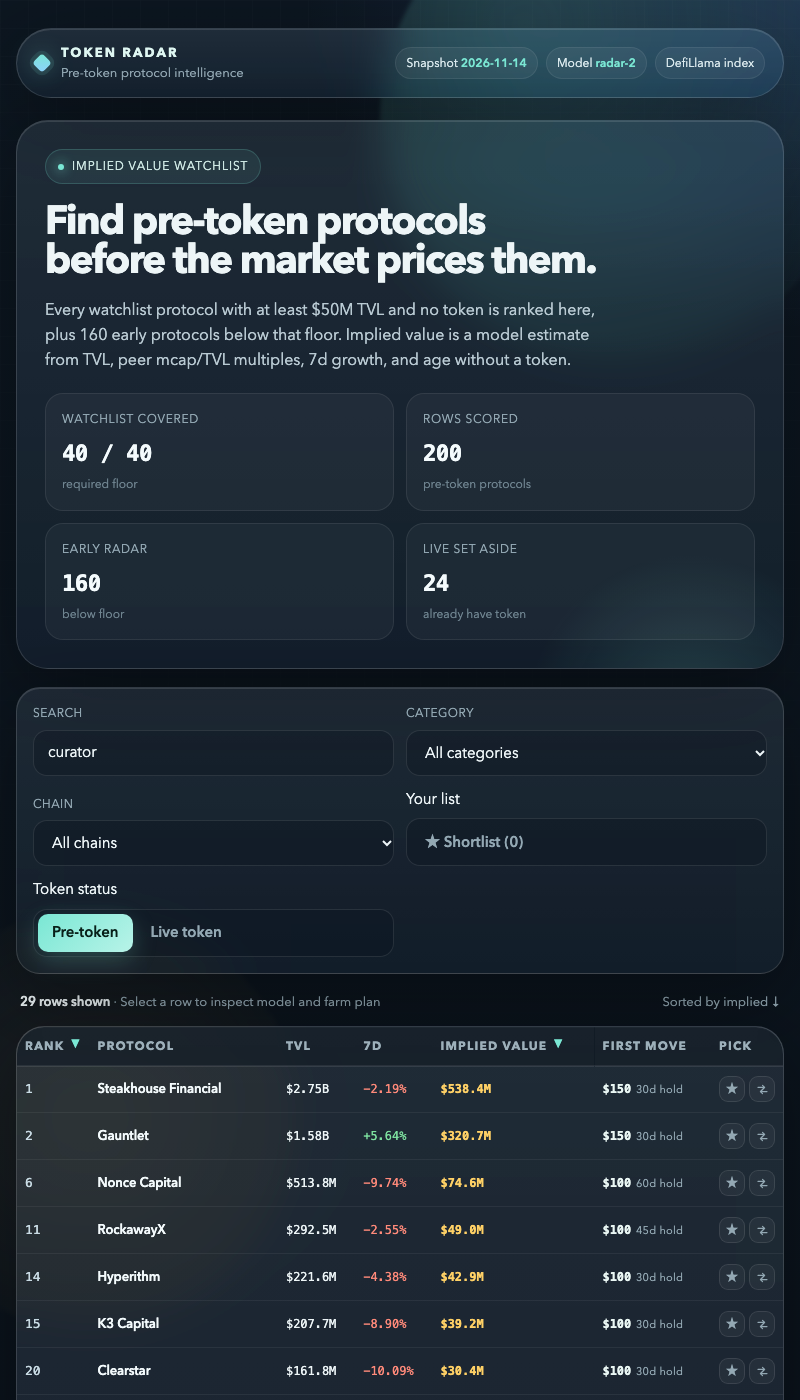
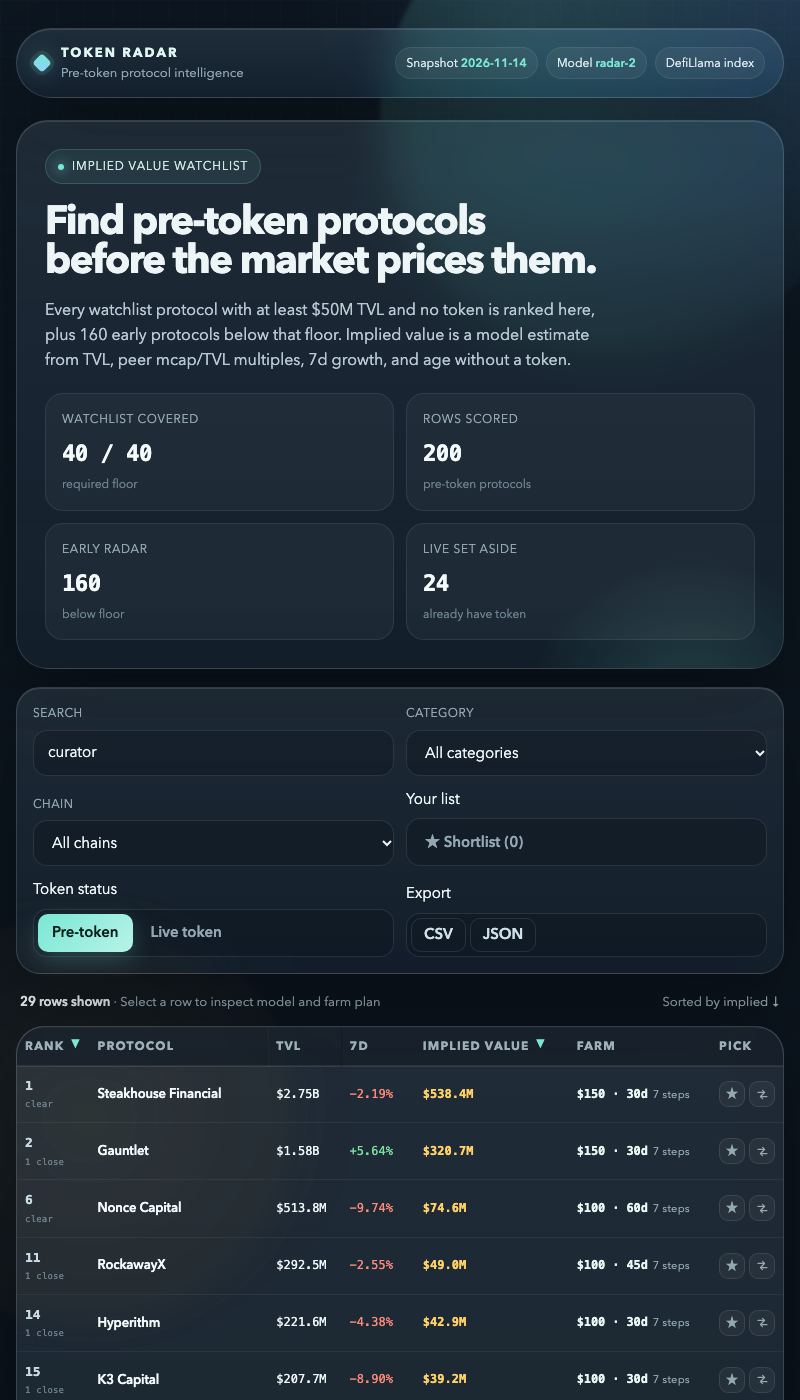
Add rank-reliability indicators and CSV/JSON export
A single rank implied more precision than the board has: many rows sit
within a few percent of each other. Rows now carry the count of other
rows inside +/-5% of their implied value, the modal explains that band
with the nearest rows and the rank range it implies, and the category
table shows how many live tokens back each peer multiple, marked thin
under ten. First move became Farm (capital, hold days, steps), and CSV
and JSON download the view currently on screen. Scores and board.json
are untouched.

diff --git a/dashboard/app.js b/dashboard/app.js
@@ -130,6 +130,32 @@
     if (age < 365) return 45;
     return 30;
   }
+  // A rank is only as firm as the gap around it. Count the other board rows inside a +/-5% band
+  // of this row's implied value; the rank itself already ignores the current filter.
+  var BAND_PCT = 0.05;
+  function impliedBand(row, pct) {
+    var share = pct === undefined ? BAND_PCT : pct;
+    var lo = row.implied_value_usd * (1 - share);
+    var hi = row.implied_value_usd * (1 + share);
+    return DATA.rows.filter(function (r) {
+      return r.slug !== row.slug && r.implied_value_usd >= lo && r.implied_value_usd <= hi;
+    });
+  }
+  function bandRanks(row, pct) {
+    var share = pct === undefined ? BAND_PCT : pct;
+    return {
+      best: rankAmong(row.implied_value_usd * (1 + share), row.slug),
+      worst: rankAmong(row.implied_value_usd * (1 - share), row.slug)
+    };
+  }
+  // How much evidence stands behind a category's peer number: below six live comparables the
+  // median is a handful of prices, so the label says so next to the count.
+  function evidenceLabel(samples) {
+    if (samples >= 10) return 'ample';
+    if (samples >= 6) return 'ok';
+    return 'thin';
+  }
+
   function readHash() {
     var hash = window.location.hash.replace(/^#/, '');
     if (!hash) return;
@@ -293,6 +319,7 @@
         count: list.length,
         peers: unblend(multiple, DATA.model),
         clip: clipOf(multiple, DATA.model),
+        samples: list.reduce(function (m, r) { return Math.max(m, r.peer_samples || 0); }, 0),
         blended: multiple,
         own: list.some(function (r) { return r.peer_category === key; }),
         implied: medianOf(list.map(function (r) { return r.implied_value_usd; })),
@@ -324,6 +351,14 @@
           }
         })),
         el('td', { class: 'num', text: String(s.count) }),
+        el('td', { class: 'num samples-col' },
+          s.own
+            ? el('div', { class: 'samples-cell' },
+                el('span', { text: String(s.samples) }),
+                s.samples < 10 ? el('span', { class: 'ev-tag ' + evidenceLabel(s.samples), text: evidenceLabel(s.samples) }) : null
+              )
+            : el('span', { class: 'peer-val none', text: '\u2014' })
+        ),
         el('td', { class: 'num' },
           s.own
             ? el('div', { class: 'peer-cell' },
@@ -352,12 +387,13 @@
     return el('section', { class: 'cat-panel glass' },
       el('h3', { text: 'Categories' }),
       el('h2', { text: 'Where the market pays the most per dollar of TVL', style: 'margin-top:8px;font-size:28px;letter-spacing:-0.03em;' }),
-      el('p', { class: 'model-note', style: 'margin-top:10px;max-width:78ch;', text: 'What live tokens in each category trade at per dollar of TVL - the market number, unblended. The board itself softens it toward ' + DATA.model.base_multiple + ' before scoring (' + DATA.model.peer_weight + ' x peer + ' + (1 - DATA.model.peer_weight).toFixed(1) + ' x base), so a row\u2019s own multiple is closer to the base than this. Categories with fewer than ' + DATA.model.peer_min_samples + ' live comparables have no number of their own: they share the market-wide median, are marked, and are listed after the measured ones. A value on the ' + DATA.model.peer_min + 'x floor or ' + DATA.model.peer_max + 'x ceiling is shown as \u2264 or \u2265: the median was clamped there, so the market number itself can be further out. Click a category to filter the board.' }),
+      el('p', { class: 'model-note', style: 'margin-top:10px;max-width:78ch;', text: 'What live tokens in each category trade at per dollar of TVL - the market number, unblended. The board itself softens it toward ' + DATA.model.base_multiple + ' before scoring (' + DATA.model.peer_weight + ' x peer + ' + (1 - DATA.model.peer_weight).toFixed(1) + ' x base), so a row\u2019s own multiple is closer to the base than this. Categories with fewer than ' + DATA.model.peer_min_samples + ' live comparables have no number of their own: they share the market-wide median, are marked, and are listed after the measured ones. A value on the ' + DATA.model.peer_min + 'x floor or ' + DATA.model.peer_max + 'x ceiling is shown as \u2264 or \u2265: the median was clamped there, so the market number itself can be further out. Samples counts the live tokens behind that number; under six it is marked thin, because a handful of market prices moves the median a lot. Click a category to filter the board.' }),
       el('div', { class: 'cat-scroll' },
         el('table', { class: 'cat-table' },
           el('thead', null, el('tr', null,
             el('th', { scope: 'col', text: 'Category' }),
             el('th', { scope: 'col', text: 'Rows' }),
+            el('th', { scope: 'col', text: 'Samples' }),
             el('th', { scope: 'col', text: 'Market peer x' }),
             el('th', { scope: 'col', text: 'Median implied' }),
             el('th', { scope: 'col', text: 'TVL' }),
@@ -452,7 +488,21 @@
       el('div', { class: 'field' }, el('label', { for: 'category', text: 'Category' }), cat),
       el('div', { class: 'field' }, el('label', { for: 'chain', text: 'Chain' }), chain),
       el('div', { class: 'status-wrap' }, el('span', { class: 'label', text: 'Your list' }), el('div', { class: 'tabs' }, short)),
-      el('div', { class: 'status-wrap' }, el('span', { class: 'label', text: 'Token status' }), el('div', { class: 'tabs' }, pre, live))
+      el('div', { class: 'status-wrap' }, el('span', { class: 'label', text: 'Token status' }), el('div', { class: 'tabs' }, pre, live)),
+      el('div', { class: 'status-wrap' }, el('span', { class: 'label', text: 'Export' }), el('div', { class: 'tabs export' },
+        el('button', {
+          type: 'button',
+          title: 'Download the rows currently shown as CSV',
+          disabled: viewRows().length === 0 ? 'disabled' : null,
+          onclick: exportCsv
+        }, 'CSV'),
+        el('button', {
+          type: 'button',
+          title: 'Download the rows currently shown as JSON, with the model and the active filters',
+          disabled: viewRows().length === 0 ? 'disabled' : null,
+          onclick: exportJson
+        }, 'JSON')
+      ))
     );
   }
 
@@ -465,6 +515,74 @@
       el('span', null, el('strong', { text: shown }), ' · ' + note),
       el('span', { text: 'Sorted by ' + state.sort + (state.dir < 0 ? ' ↓' : ' ↑') })
     );
+  }
+
+  // Export works on the view currently on screen: same tab, filters, order and derived columns.
+  function viewRows() {
+    return state.tab === 'pre-token' ? sortedRows(filteredRows()) : DATA.live.slice();
+  }
+  function viewRecord(r) {
+    if (state.tab === 'live') {
+      return {
+        name: r.name, slug: r.slug, category: r.category || 'Other',
+        chains: (r.chains || []).join('; '), tvl_usd: r.tvl_usd, change_7d: r.change_7d,
+        mcap_usd: r.mcap_usd, status: 'live token'
+      };
+    }
+    return {
+      rank: r.rank, name: r.name, slug: r.slug, category: r.category || 'Other',
+      chains: (r.chains || []).join('; '), tvl_usd: r.tvl_usd, change_7d: r.change_7d,
+      age_days: r.age_days, listed_at: r.listed_at,
+      blended_multiple: r.peer_multiple, market_peer: round4(unblend(r.peer_multiple, DATA.model)),
+      peer_samples: r.peer_samples, peer_clamp: clipOf(r.peer_multiple, DATA.model) || '',
+      growth_multiplier: r.growth_multiplier, maturity_multiplier: r.maturity_multiplier,
+      implied_value_usd: r.implied_value_usd,
+      farm_capital_usd: capitalFor(r), farm_hold_days: holdDaysFor(r.age_days),
+      farm_steps: (r.farm_steps || []).length, close_within_5pct: impliedBand(r).length,
+      shortlisted: isShortlisted(r.slug), in_compare: isCompared(r.slug)
+    };
+  }
+  function csvCell(value) {
+    if (value === null || value === undefined) return '';
+    var text = String(value);
+    return /[",\r\n]/.test(text) ? '"' + text.replace(/"/g, '""') + '"' : text;
+  }
+  function downloadFile(name, mime, text) {
+    var url = URL.createObjectURL(new Blob([text], { type: mime }));
+    var link = el('a', { href: url, download: name });
+    document.body.appendChild(link);
+    link.click();
+    link.remove();
+    window.setTimeout(function () { URL.revokeObjectURL(url); }, 2000);
+  }
+  function exportCsv() {
+    var records = viewRows().map(viewRecord);
+    if (records.length === 0) return;
+    var cols = Object.keys(records[0]);
+    var lines = [cols.join(',')].concat(records.map(function (rec) {
+      return cols.map(function (c) { return csvCell(rec[c]); }).join(',');
+    }));
+    downloadFile('token-radar-' + DATA.as_of + (state.tab === 'live' ? '-live' : '') + '.csv',
+      'text/csv;charset=utf-8', lines.join('\r\n') + '\r\n');
+  }
+  function exportJson() {
+    var records = viewRows().map(viewRecord);
+    if (records.length === 0) return;
+    var payload = {
+      as_of: DATA.as_of,
+      source: DATA.source,
+      model_version: DATA.model_version,
+      model: DATA.model,
+      view: {
+        tab: state.tab, search: state.q, category: state.category, chain: state.chain,
+        shortlist_only: state.shortlistOnly, sort: state.sort,
+        direction: state.dir < 0 ? 'desc' : 'asc'
+      },
+      count: records.length,
+      rows: records
+    };
+    downloadFile('token-radar-' + DATA.as_of + (state.tab === 'live' ? '-live' : '') + '.json',
+      'application/json;charset=utf-8', JSON.stringify(payload, null, 2) + '\n');
   }
 
   function sortHeader(key, label, cls) {
@@ -497,13 +615,23 @@
     list.forEach(function (r, i) {
       var growth = r.change_7d === null ? 'n/a' : fmtPct(r.change_7d);
       var growthClass = r.change_7d === null ? '' : r.change_7d >= 0 ? 'pos' : 'neg';
+      var near = impliedBand(r).length;
       var tr = el('tr', {
         'data-selected': state.selected === r.slug ? 'true' : 'false',
         tabindex: '0',
         onclick: function () { openDetail(r.slug); },
         onkeydown: function (e) { if (e.key === 'Enter' || e.key === ' ') { e.preventDefault(); openDetail(r.slug); } }
       },
-        el('td', { class: 'num rank-cell', text: String(r.rank) }),
+        el('td', { class: 'num rank-cell' },
+          el('div', { class: 'rank-wrap' },
+            el('b', { text: String(r.rank) }),
+            el('span', {
+              class: 'rank-near',
+              title: near + ' other rows sit within \u00b15% of this implied value',
+              text: near === 0 ? 'clear' : near + ' close'
+            })
+          )
+        ),
         el('td', null, el('div', { class: 'name-cell' },
           el('b', { text: r.name }),
           el('span', { text: (r.category || 'Other') + ' · ' + (r.chains && r.chains.length ? r.chains.slice(0, 2).join(', ') : 'unnamed chain') })
@@ -516,9 +644,9 @@
           el('div', { class: 'bar', 'aria-hidden': 'true' }, el('i', { style: 'width:' + Math.max(3, Math.round((r.implied_value_usd / max) * 100)) + '%' })),
           el('span', { class: 'num', text: fmtUsd(r.implied_value_usd) })
         )),
-        el('td', { class: 'move-col' }, el('div', { class: 'move-cell', title: 'Capital and hold time from this row\u2019s farm plan' },
-          el('b', { text: fmtUsd(capitalFor(r)) }),
-          el('span', { text: holdDaysFor(r.age_days) + 'd hold' })
+        el('td', { class: 'farm-col' }, el('div', { class: 'farm-cell', title: 'Capital to qualify, days to hold, and steps from this row\u2019s farm plan' },
+          el('b', { text: fmtUsd(capitalFor(r)) + ' \u00b7 ' + holdDaysFor(r.age_days) + 'd' }),
+          el('span', { text: (r.farm_steps || []).length + ' steps' })
         )),
         el('td', { class: 'pick-col' }, pickCell(r))
       );
@@ -541,7 +669,7 @@
             sortHeader('age', 'Age', 'age-col'),
             sortHeader('peer', 'Peer x', 'peer-col'),
             sortHeader('implied', 'Implied value'),
-            el('th', { scope: 'col', class: 'move-col', text: 'First move' }),
+            el('th', { scope: 'col', class: 'farm-col', text: 'Farm' }),
             el('th', { scope: 'col', class: 'pick-col', text: 'Pick' })
           )),
           tbody
@@ -674,6 +802,33 @@
     );
   }
 
+  function rankTrustSection(row) {
+    var band = impliedBand(row);
+    var ranks = bandRanks(row);
+    var nearest = band.slice().sort(function (a, b) {
+      return Math.abs(a.implied_value_usd - row.implied_value_usd) - Math.abs(b.implied_value_usd - row.implied_value_usd);
+    }).slice(0, 5);
+    var copy = band.length === 0
+      ? 'No other row scores within 5% of this implied value, so its position does not rest on rounding.'
+      : band.length + ' of the other ' + (DATA.board_size - 1) + ' rows score within 5% of this implied value, so the order between them is not firm. Moved \u00b15%, this row would rank between #' + ranks.best + ' and #' + ranks.worst + '.';
+    var list = el('div', { class: 'trust-list' }, nearest.map(function (n) {
+      var delta = (n.implied_value_usd - row.implied_value_usd) / row.implied_value_usd;
+      return el('div', { class: 'trust-row' },
+        el('b', { text: n.name }),
+        el('span', { class: 'trust-cat', text: n.category || 'Other' }),
+        el('span', { class: 'trust-implied', text: fmtUsd(n.implied_value_usd) }),
+        el('span', { class: 'trust-delta', text: signedPct(delta) })
+      );
+    }));
+
+    return el('section', { class: 'section' },
+      el('h3', { text: 'Rank trust' }),
+      el('p', { class: 'detail-copy why-copy', text: copy }),
+      nearest.length ? list : null,
+      el('p', { class: 'equation-note', text: 'Peer evidence: ' + row.peer_samples + ' live tokens ' + (row.peer_category ? 'in ' + row.peer_category : 'across the snapshot (market-wide fallback)') + ', ' + evidenceLabel(row.peer_samples) + '. The Categories table carries the same count beside each peer multiple.' })
+    );
+  }
+
   var dialog = el('dialog', { class: 'detail', id: 'detail', 'aria-labelledby': 'detail-title' });
   dialog.addEventListener('close', function () { state.selected = null; writeHash(); render(); });
   dialog.addEventListener('click', function (e) {
@@ -731,6 +886,7 @@
     ));
 
     shell.appendChild(whySection(row));
+    shell.appendChild(rankTrustSection(row));
 
     var comps = peerComps(row);
     var compSection = el('section', { class: 'section' },

diff --git a/dashboard/app.css b/dashboard/app.css
@@ -136,7 +136,7 @@ button { cursor: pointer; }
 .stat small { display: block; margin-top: 4px; color: var(--dim); font-size: 12px; }
 
 .controls {
-  display: grid; grid-template-columns: minmax(200px, 1.2fr) repeat(2, minmax(140px, 0.7fr)) auto auto; gap: 12px;
+  display: grid; grid-template-columns: minmax(200px, 1.2fr) repeat(2, minmax(140px, 0.7fr)) auto auto auto; gap: 12px;
   padding: 16px; border-radius: 24px; margin-bottom: 18px; align-items: end;
 }
 .field { display: grid; gap: 7px; min-width: 0; }
@@ -161,6 +161,11 @@ button { cursor: pointer; }
   color: var(--muted); font-weight: 550; transition: all 180ms ease;
 }
 .tabs button:hover { color: var(--text); }
+.tabs.export button {
+  min-height: 34px; padding: 0 12px; border: 1px solid rgba(255,255,255,0.1); color: #cfe0e7;
+}
+.tabs.export button:hover { border-color: rgba(122,231,212,0.4); }
+.tabs button[disabled] { opacity: 0.45; cursor: not-allowed; }
 .tabs button[aria-pressed="true"] {
   color: #082019; background: linear-gradient(135deg, var(--accent), #b8f3e8);
   box-shadow: 0 8px 24px rgba(122,231,212,0.22);
@@ -203,16 +208,19 @@ tbody tr:last-child td { border-bottom: 0; }
 
 .num { font-family: var(--font-num); font-variant-numeric: tabular-nums; white-space: nowrap; }
 .rank-cell { color: #c9dbe4; font-size: 13px; }
+.rank-wrap { display: grid; gap: 2px; }
+.rank-wrap b { font-weight: 550; }
+.rank-near { font-size: 10px; letter-spacing: 0.02em; color: var(--dim); white-space: nowrap; }
 .name-cell { display: grid; gap: 4px; min-width: 180px; }
 .name-cell b { font-size: 15px; font-weight: 600; letter-spacing: -0.01em; color: #f3fafc; }
 .name-cell span { font-size: 12px; color: var(--muted); line-height: 1.4; }
 .pos { color: #7ee2a0; }
 .neg { color: var(--danger); }
 .peer { color: #b8cad3; }
-.move-col { white-space: nowrap; }
-.move-cell { display: grid; gap: 3px; }
-.move-cell b { font-family: var(--font-num); font-size: 13px; font-weight: 600; color: #eaf7f4; letter-spacing: -0.01em; }
-.move-cell span { font-size: 11px; color: var(--muted); letter-spacing: 0.02em; }
+.farm-col { white-space: nowrap; }
+.farm-cell { display: grid; gap: 3px; }
+.farm-cell b { font-family: var(--font-num); font-size: 13px; font-weight: 600; color: #eaf7f4; letter-spacing: -0.01em; }
+.farm-cell span { font-size: 11px; color: var(--muted); letter-spacing: 0.02em; }
 .implied-cell { display: flex; align-items: center; gap: 12px; min-width: 160px; }
 .implied-cell .num { min-width: 88px; color: var(--value); font-weight: 550; }
 .bar {
@@ -329,9 +337,25 @@ tbody tr:last-child td { border-bottom: 0; }
 .peer-val { font-family: var(--font-num); color: #eaf7f4; }
 .peer-val.none { font-family: var(--font-body); font-size: 12px; color: var(--muted); }
 .peer-val.clipped { color: var(--value); }
+.samples-cell { display: inline-flex; align-items: baseline; gap: 6px; }
+.ev-tag {
+  padding: 1px 6px; border-radius: 999px; font-family: var(--font-body); font-size: 10px; letter-spacing: 0.02em;
+  color: var(--value); background: rgba(255,209,102,0.1); border: 1px solid rgba(255,209,102,0.28);
+}
 .peer-src { margin-top: 4px; max-width: 200px; font-size: 11px; line-height: 1.4; color: var(--dim); }
 .cat-bar > i { display: block; height: 100%; border-radius: inherit; background: linear-gradient(90deg, var(--accent), var(--value)); }
 .cat-best { color: var(--muted); font-family: var(--font-body); max-width: 200px; overflow: hidden; text-overflow: ellipsis; white-space: nowrap; }
+
+.trust-list { display: grid; gap: 6px; margin-top: 10px; }
+.trust-row {
+  display: flex; align-items: baseline; gap: 10px; padding: 7px 11px; border-radius: 10px;
+  font-family: var(--font-num); font-size: 12px; color: #dcebef;
+  background: rgba(255,255,255,0.035); border: 1px solid rgba(255,255,255,0.07);
+}
+.trust-row b { font-family: var(--font-body); font-weight: 550; color: #f0f9fb; }
+.trust-cat { color: var(--dim); font-family: var(--font-body); font-size: 11px; }
+.trust-implied { margin-left: auto; }
+.trust-delta { min-width: 52px; text-align: right; color: var(--muted); }
 
 .why-list { display: grid; gap: 7px; }
 .why-row {
@@ -438,10 +462,11 @@ tbody tr.row-in { animation: rowIn 340ms cubic-bezier(0.2, 0.7, 0.3, 1) both; }
   .pick-col { width: 72px; }
   .pick-cell { gap: 4px; }
   .pick-btn { width: 26px; height: 26px; font-size: 12px; }
-  .move-cell { display: flex; gap: 5px; align-items: baseline; }
-  .move-cell b { font-size: 12px; }
-  .move-cell span { font-size: 11px; }
-  .rank-cell { width: 32px; }
+  .farm-cell { display: flex; gap: 5px; align-items: baseline; }
+  .farm-cell b { font-size: 12px; }
+  .farm-cell span { font-size: 11px; }
+  .rank-cell { width: 56px; }
+  .rank-near { font-size: 9px; }
 }
 @media (max-width: 1080px) {
   .hero { grid-template-columns: 1fr; }

diff --git a/dashboard/index.html b/dashboard/index.html
@@ -5,7 +5,7 @@
 <meta name="viewport" content="width=device-width, initial-scale=1">
 <meta name="color-scheme" content="dark">
 <title>Token Radar: pre-token protocols ranked by implied value</title>
-<link rel="stylesheet" href="app.css?v=7">
+<link rel="stylesheet" href="app.css?v=9">
 </head>
 <body>
 <a class="skip" href="#board">Skip to the board</a>
@@ -16,6 +16,6 @@
 </div>
 <main id="board" tabindex="-1" aria-busy="true"></main>
 <script src="../data.js?v=4"></script>
-<script src="app.js?v=8"></script>
+<script src="app.js?v=10"></script>
 </body>
 </html>
